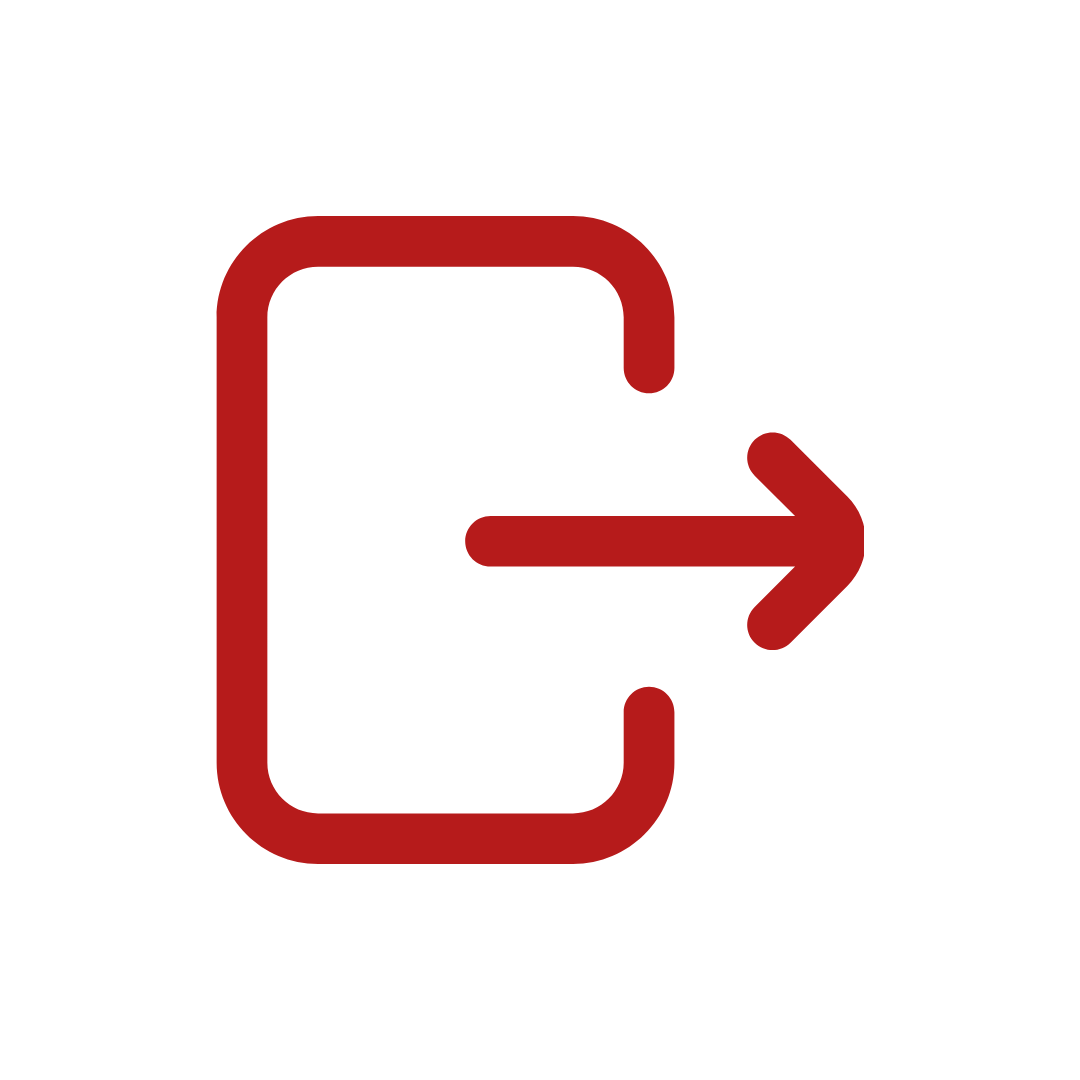
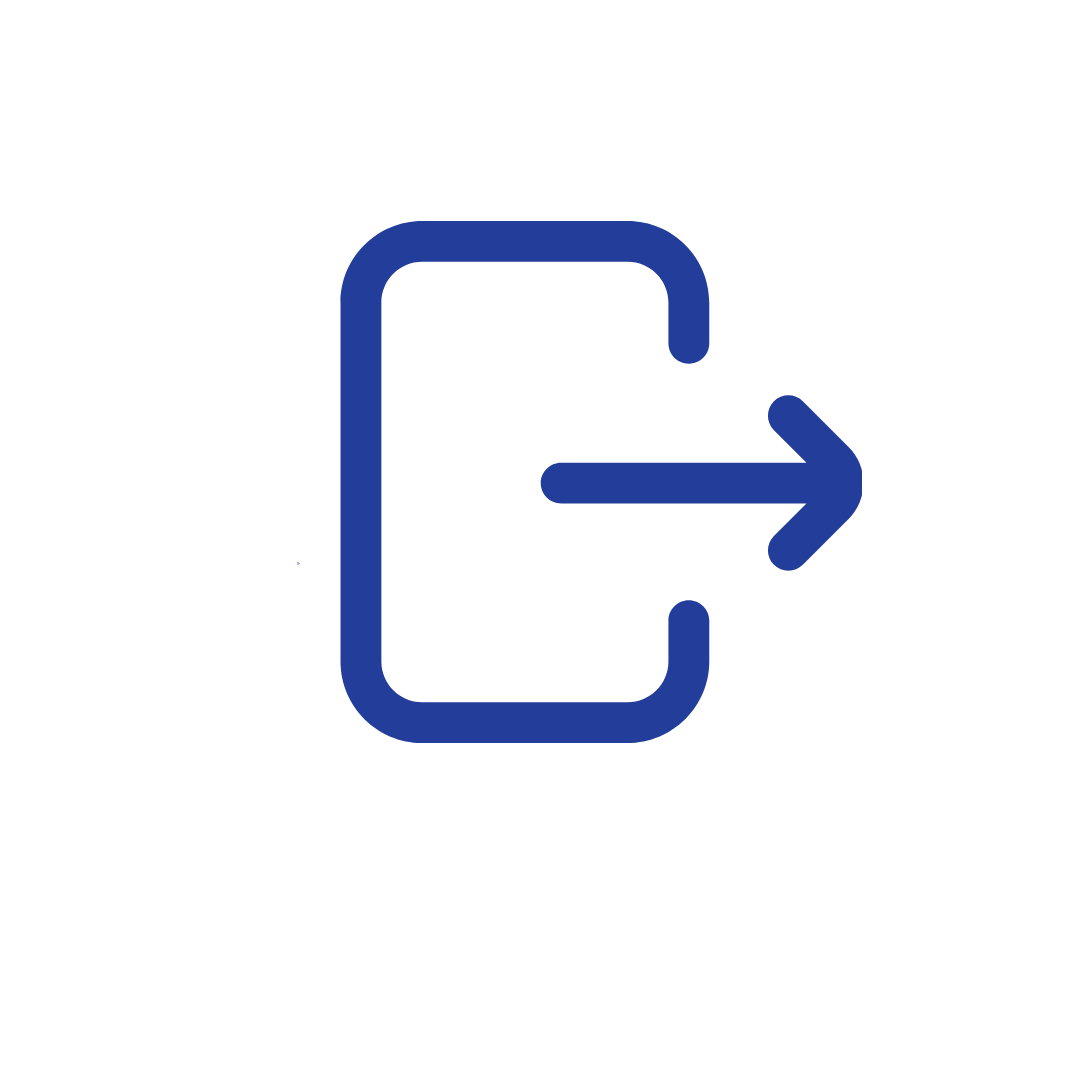
UI changed

Changed region(s): [[0.1833, 0.1833, 0.825, 0.825]]

diff --git a/lib/views/home_page.dart b/lib/views/home_page.dart
@@ -182,7 +182,7 @@ class HomePage extends StatelessWidget {
                           ClipRRect(
                             borderRadius: BorderRadius.circular(18.0),
                             child: Image.asset(
-                              'assets/images/close.png',
+                              'assets/images/Exit.png',
                               fit: BoxFit.cover,
                               width: 130,
                               height: 130,
